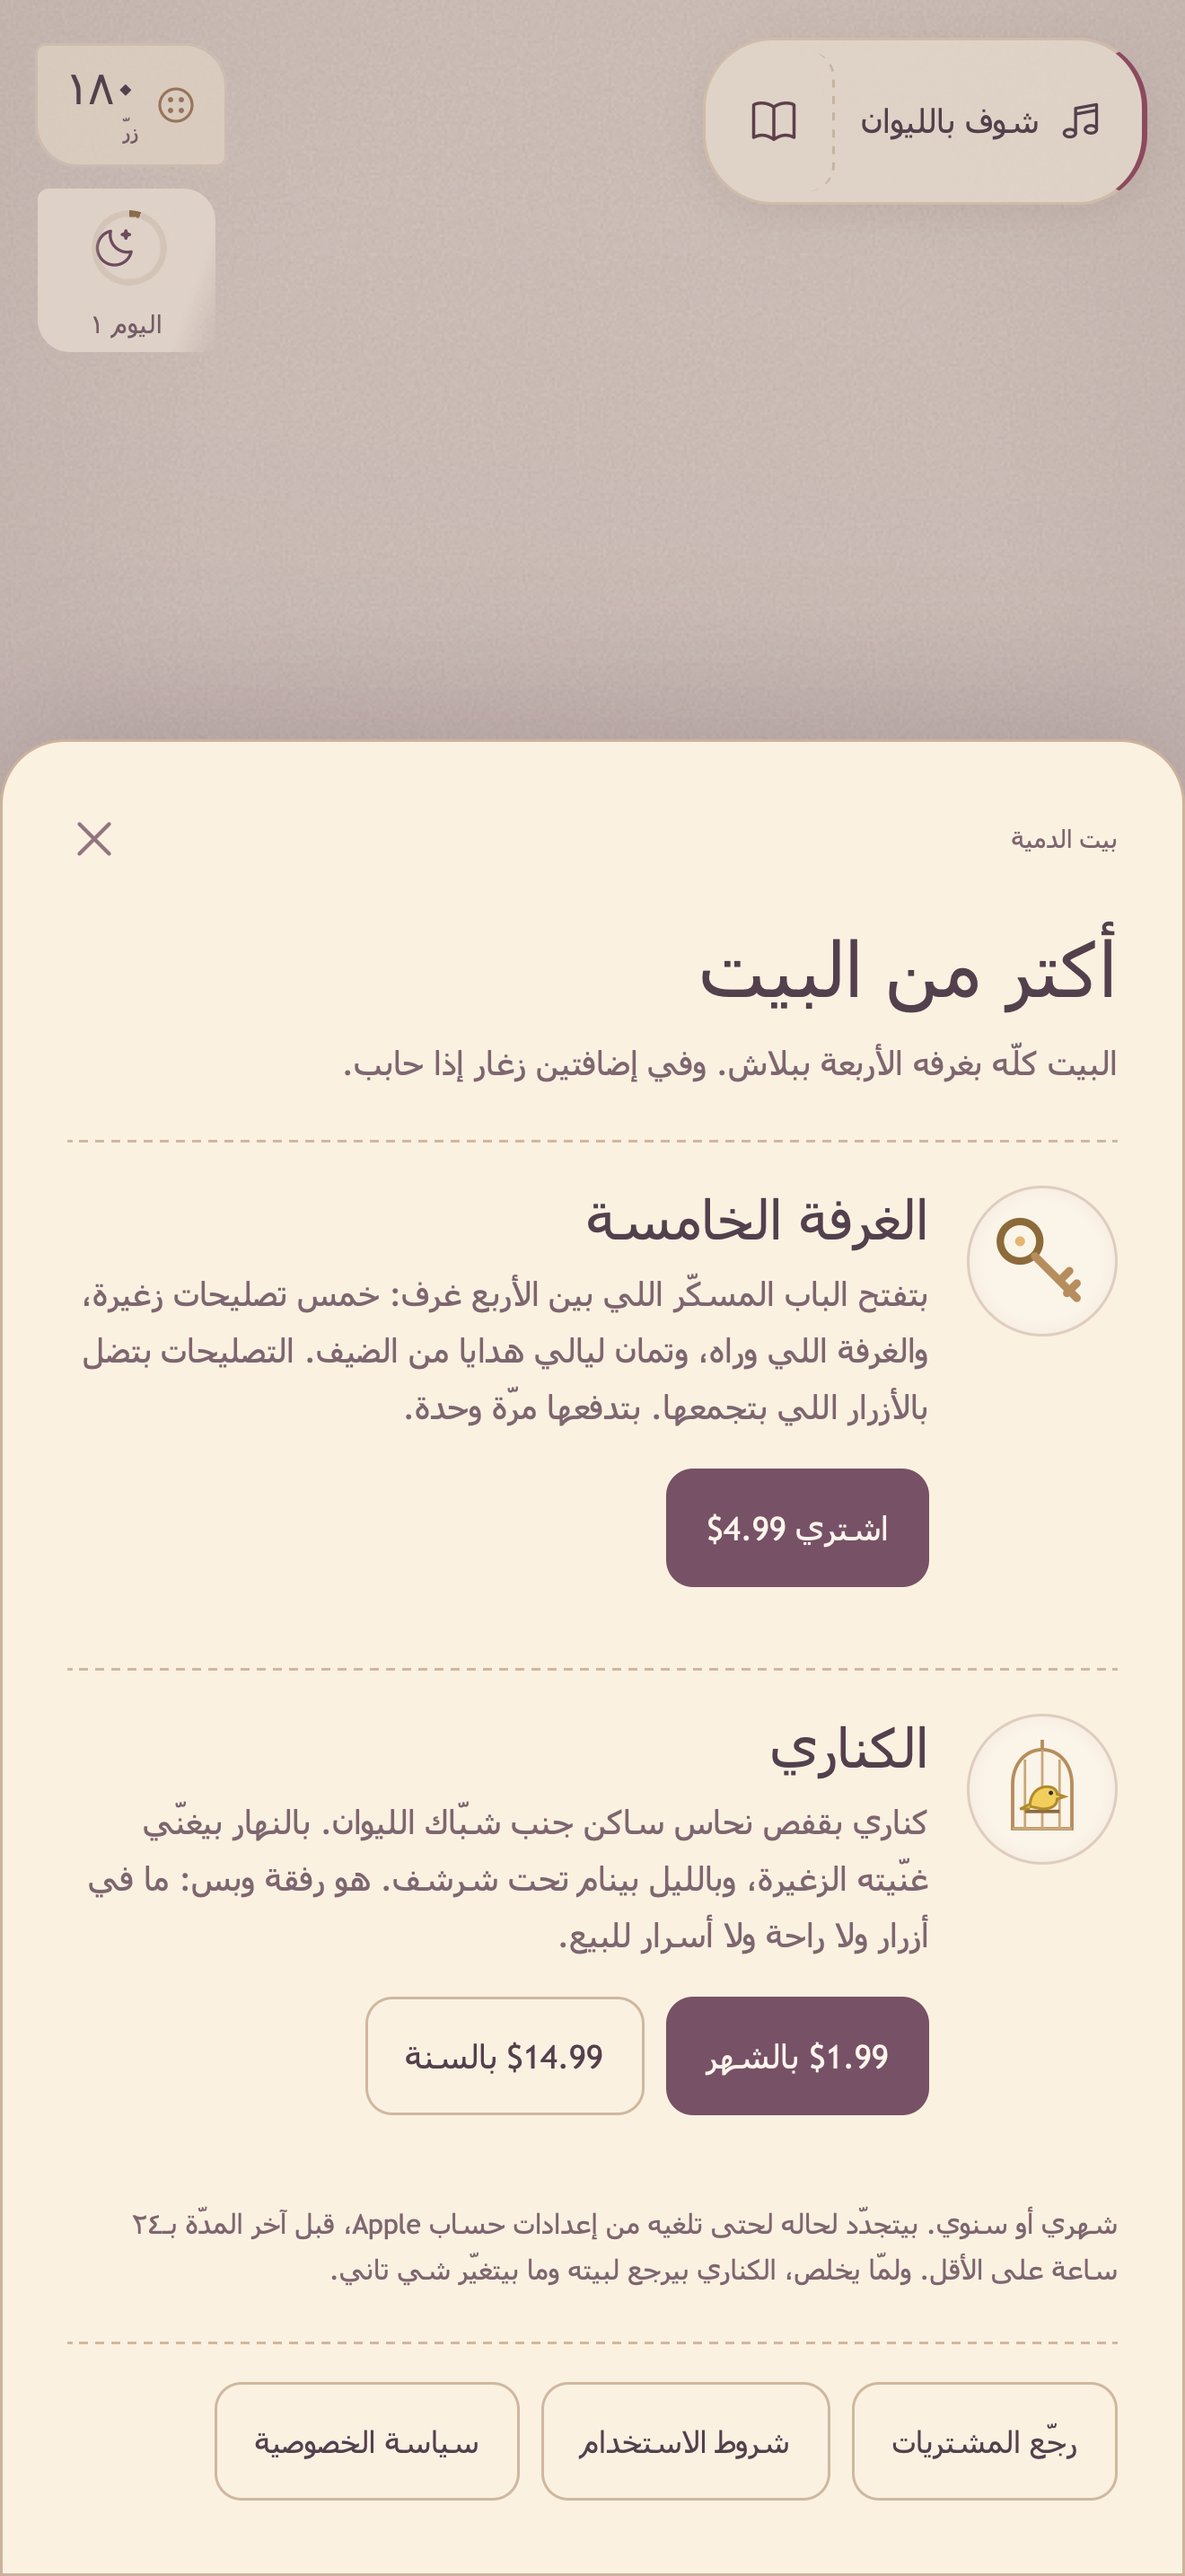
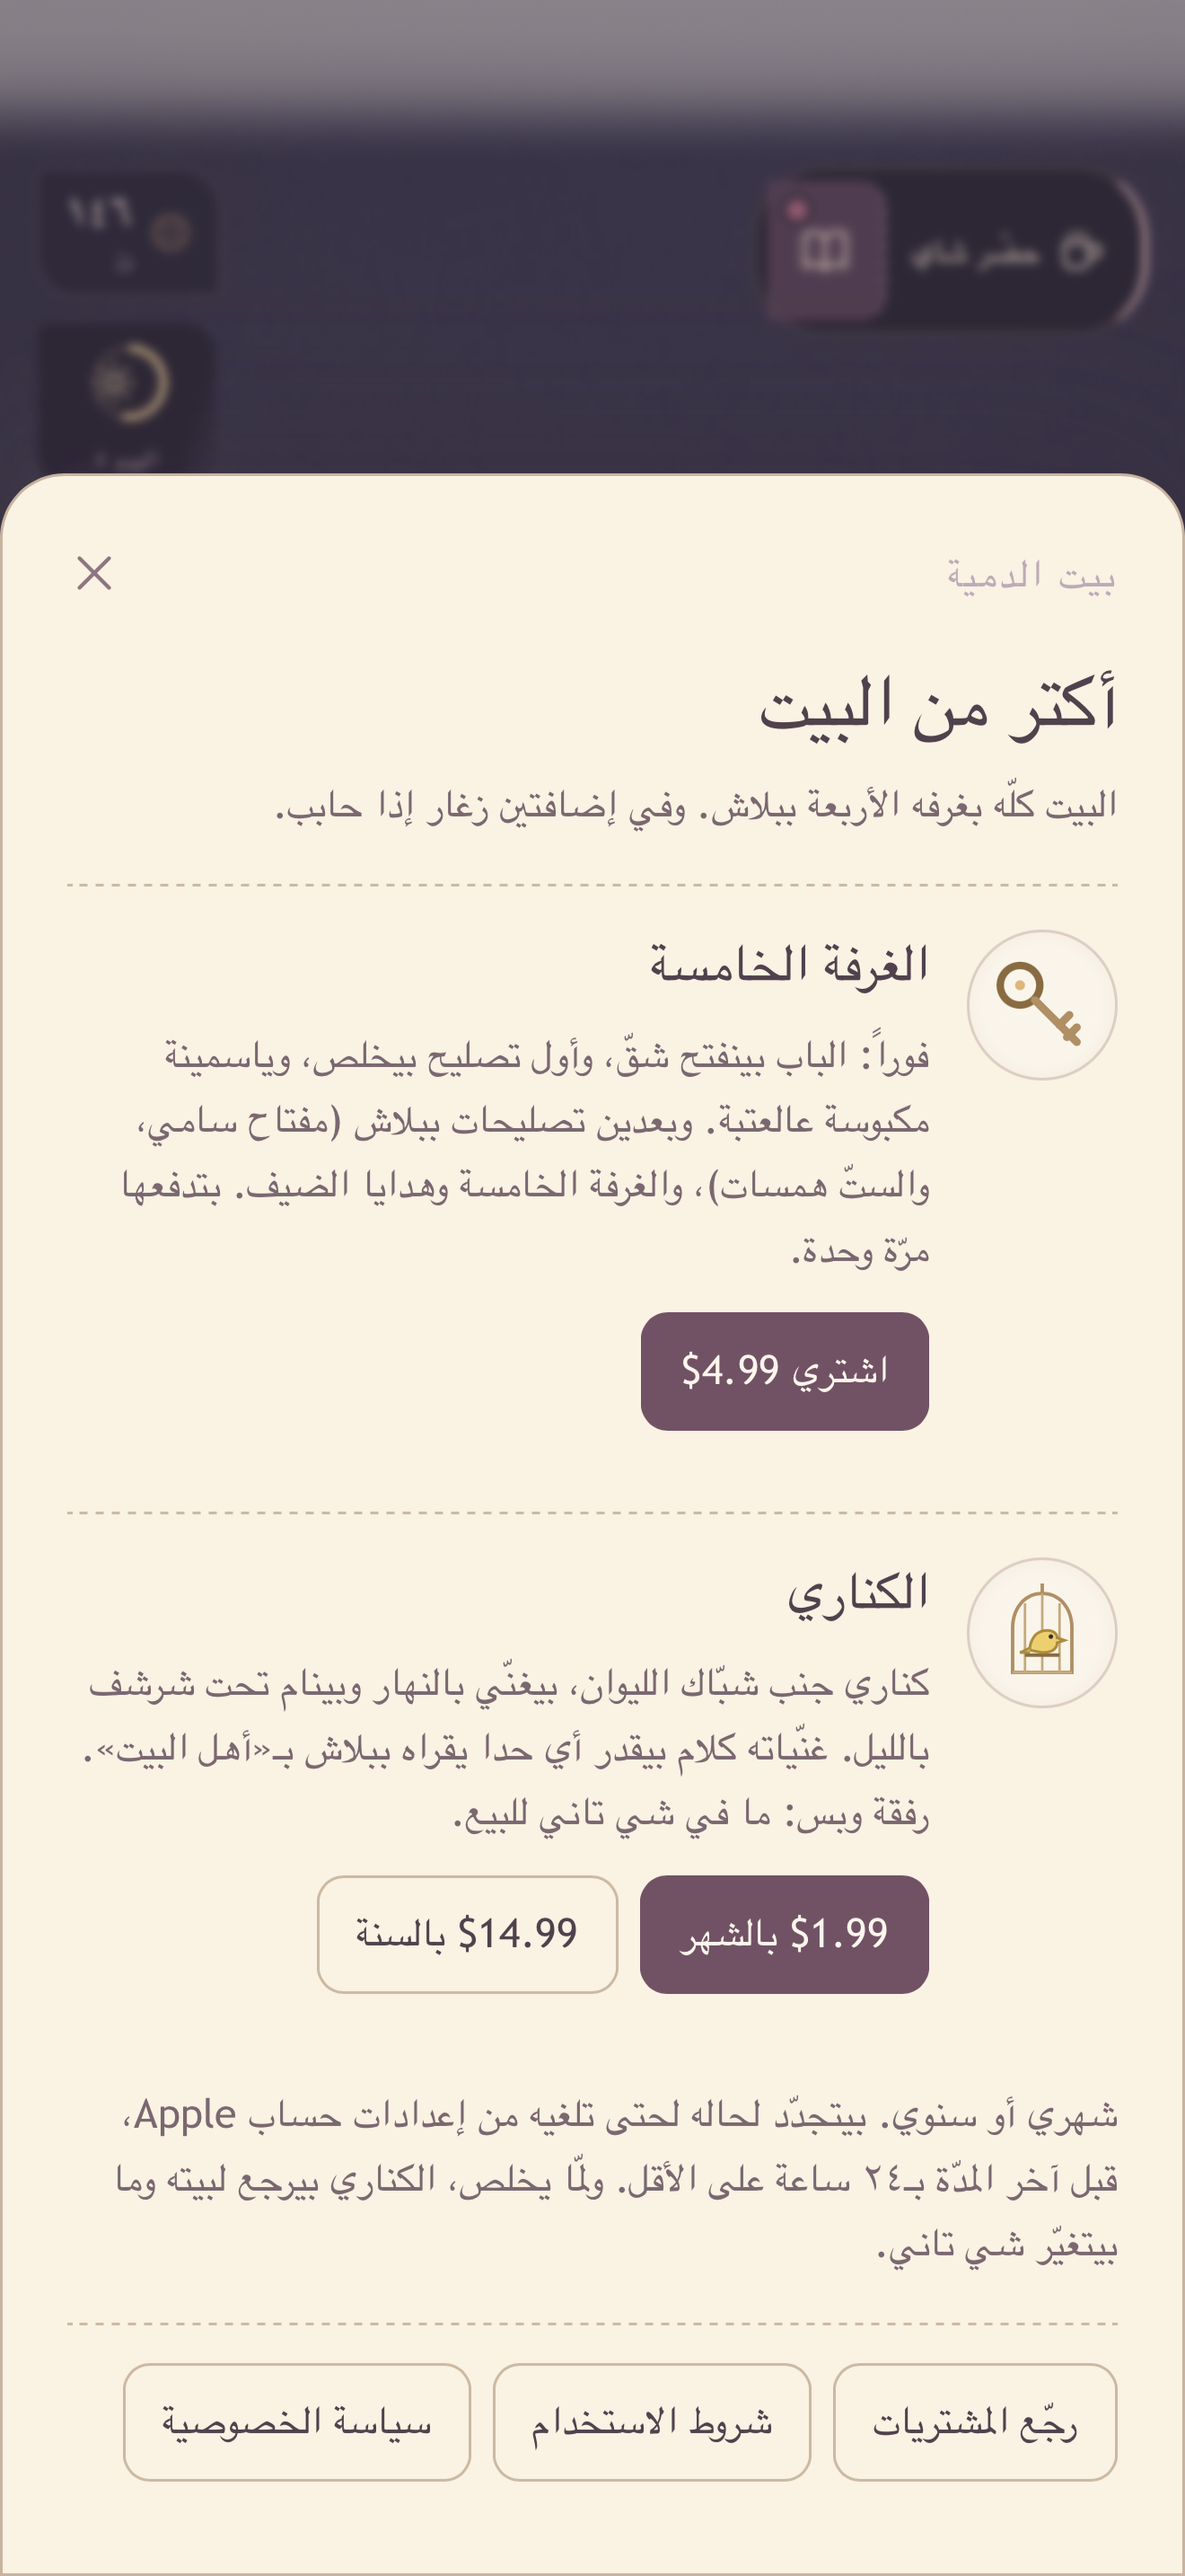
docs(ios/store): recapture the review card (en/ar) with the new Fifth Room and canary copy
Card copy tightened so prices, renewal terms and Restore/Terms/Privacy all fit on screen.
1320x2868, opaque RGB, StoreKit test prices.

Claude-Session: https://claude.ai/code/session_013f6uZrUaRj1UDzq4RNXnPp

diff --git a/src/locale-store.js b/src/locale-store.js
@@ -3,12 +3,10 @@
 export default {
  en:{
   storeTitle:'More of the house',
-  storeIntro:'The whole house of four rooms is free. Two small additions, if you like.',
+  storeIntro:'The whole house is free. Two small extras, if you like.',
   fifthName:'The Fifth Room',
-  fifthNote:'At once: the closed door opens a crack, its first mending is done, and the visitor leaves '+
-   'a pressed jasmine on the threshold. Then four more mendings, free of buttons: the key waits until Sami '+
-   'holds you dear, the last until you have heard all six whispers. Behind it: the fifth room and the rest '+
-   'of the visitor\'s eight gifts, one a night. Paid once.',
+  fifthNote:'At once: the door opens a crack, its first mending done, a jasmine on the threshold. '+
+   'Then free mendings (Sami\'s key, six whispers), the room and its gifts. Paid once.',
   fifthOwned:'Yours. The door is open; its last mendings are free (Sami\'s key, then the six whispers).',
   fifthDelivered:'The closed door opens a crack. A pressed jasmine waits on the threshold. Four free mendings '+
    'remain: Sami\'s key, then all six whispers.',
@@ -16,14 +14,12 @@ export default {
    'cost no buttons. The key waits until Sami holds you dear; the last waits until you have heard all six '+
    'whispers. Then the visitor\'s gifts come, one a night.',
   canaryName:'The canary',
-  canaryNote:'A canary in a brass cage lives by the liwan window. It sings its little song by day and '+
-   'sleeps under a cloth at night, and now and then sings aloud what a doll can\'t say: lines every player '+
-   'can read, free, beside each doll\'s memories in Little souls. Company only: no buttons, comfort, '+
-   'whispers or story are for sale.',
+  canaryNote:'A canary by the liwan window, singing by day. Its songs are lines anyone reads free in '+
+   'Little souls. Company only: nothing else is for sale.',
   canaryOwned:'On. The canary is in the liwan.',
   storeMonthly:'{price} a month',storeYearly:'{price} a year',
-  storeRenews:'Monthly or yearly. It renews automatically until you cancel it in your Apple Account settings, '+
-   'at least 24 hours before the period ends. When it ends, the canary flies home and nothing else changes.',
+  storeRenews:'Monthly or yearly. Renews automatically unless cancelled in your Apple Account settings at least '+
+   '24 hours before the period ends. Then the canary flies home; nothing else changes.',
   storeBuy:'Buy',storeOwned:'Yours',storeLoading:'Asking the App Store…',storeBuying:'Waiting for the App Store…',
   storePending:'Waiting for approval. It opens when it is given.',
   storeFailed:'The App Store could not finish that. Nothing was charged.',
@@ -50,9 +46,8 @@ export default {
   storeTitle:'أكتر من البيت',
   storeIntro:'البيت كلّه بغرفه الأربعة ببلاش. وفي إضافتين زغار إذا حابب.',
   fifthName:'الغرفة الخامسة',
-  fifthNote:'فوراً: الباب المسكّر بينفتح شقّ زغير، وأول تصليح بيخلص، والضيف بيترك ياسمينة مكبوسة عالعتبة. '+
-   'وبعدين أربع تصليحات كمان بلا أزرار: المفتاح ناطر لحتى توصل لدرجة الغلاوة مع سامي، والأخير لحتى تسمع '+
-   'الستّ همسات كلّهن. ووراه: الغرفة الخامسة وباقي هدايا الضيف التمانة، هدية كل ليلة. بتدفعها مرّة وحدة.',
+  fifthNote:'فوراً: الباب بينفتح شقّ، وأول تصليح بيخلص، وياسمينة مكبوسة عالعتبة. وبعدين تصليحات ببلاش '+
+   '(مفتاح سامي، والستّ همسات)، والغرفة الخامسة وهدايا الضيف. بتدفعها مرّة وحدة.',
   fifthOwned:'صارت إلك. الباب مفتوح، وآخر تصليحاته ببلاش (مفتاح سامي، وبعدين الستّ همسات).',
   fifthDelivered:'الباب المسكّر انفتح شقّ زغير. في ياسمينة مكبوسة ناطرة عالعتبة. باقي أربع تصليحات ببلاش: '+
    'مفتاح سامي، وبعدين الستّ همسات كلّهن.',
@@ -60,9 +55,8 @@ export default {
    'المفتاح ناطر لحتى توصل لدرجة الغلاوة مع سامي، والأخير لحتى تسمع الستّ همسات كلّهن. وبعدها بتجي هدايا '+
    'الضيف، هدية كل ليلة.',
   canaryName:'الكناري',
-  canaryNote:'كناري بقفص نحاس ساكن جنب شبّاك الليوان. بالنهار بيغنّي غنّيته الزغيرة، وبالليل بينام '+
-   'تحت شرشف، وكل فترة بيغنّي بصوت عالي اللي الدمية ما بتقدر تقوله: كلام مكتوب ببلاش لكل لاعب '+
-   'جنب ذكريات كل دمية بـ«أهل البيت». رفقة وبس: ما في أزرار ولا راحة ولا همسات ولا حكاية للبيع.',
+  canaryNote:'كناري جنب شبّاك الليوان، بيغنّي بالنهار وبينام تحت شرشف بالليل. غنّياته كلام بيقدر '+
+   'أي حدا يقراه ببلاش بـ«أهل البيت». رفقة وبس: ما في شي تاني للبيع.',
   canaryOwned:'شغّال. الكناري بالليوان.',
   storeMonthly:'{price} بالشهر',storeYearly:'{price} بالسنة',
   storeRenews:'شهري أو سنوي. بيتجدّد لحاله لحتى تلغيه من إعدادات حساب Apple، قبل آخر المدّة بـ٢٤ ساعة '+
